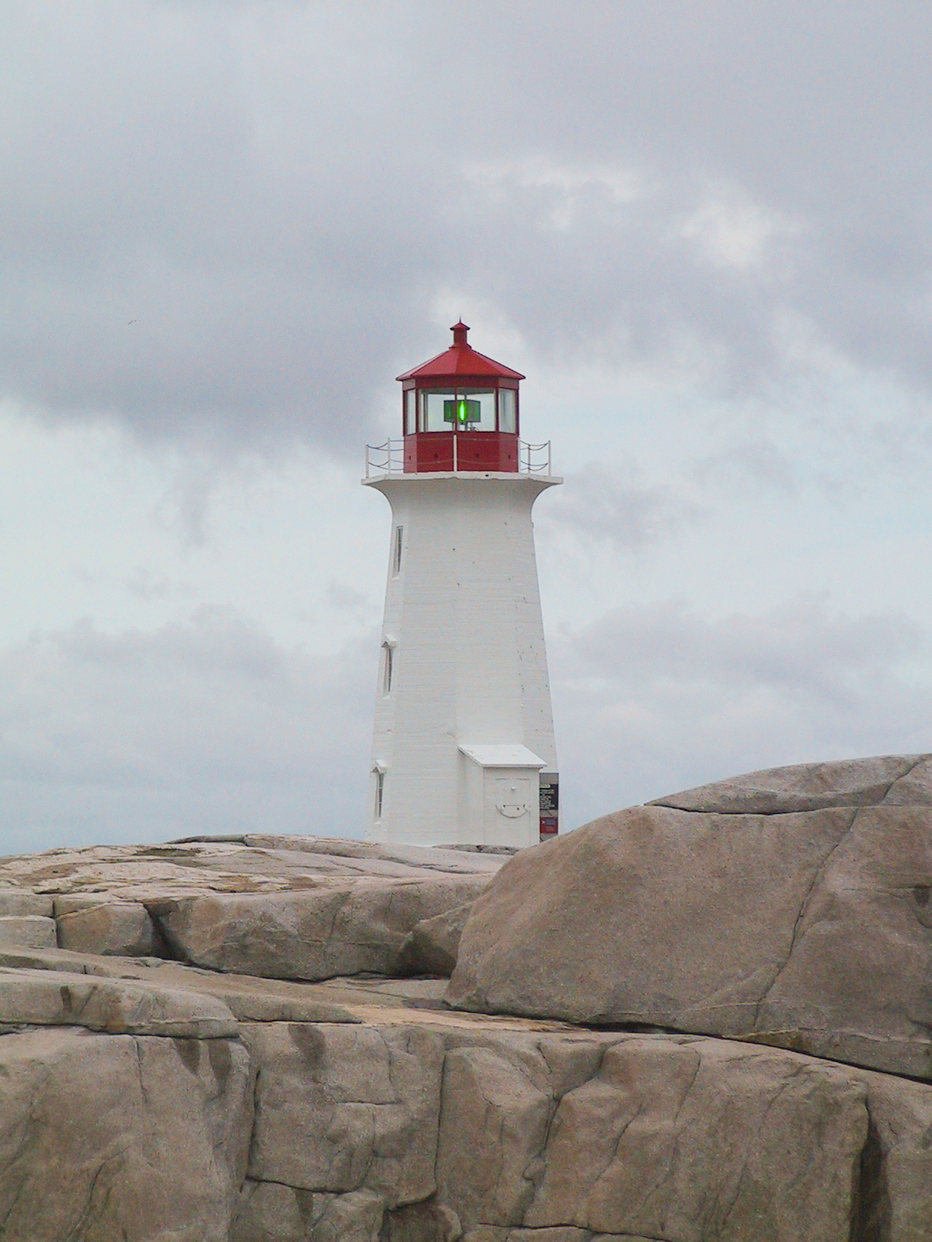
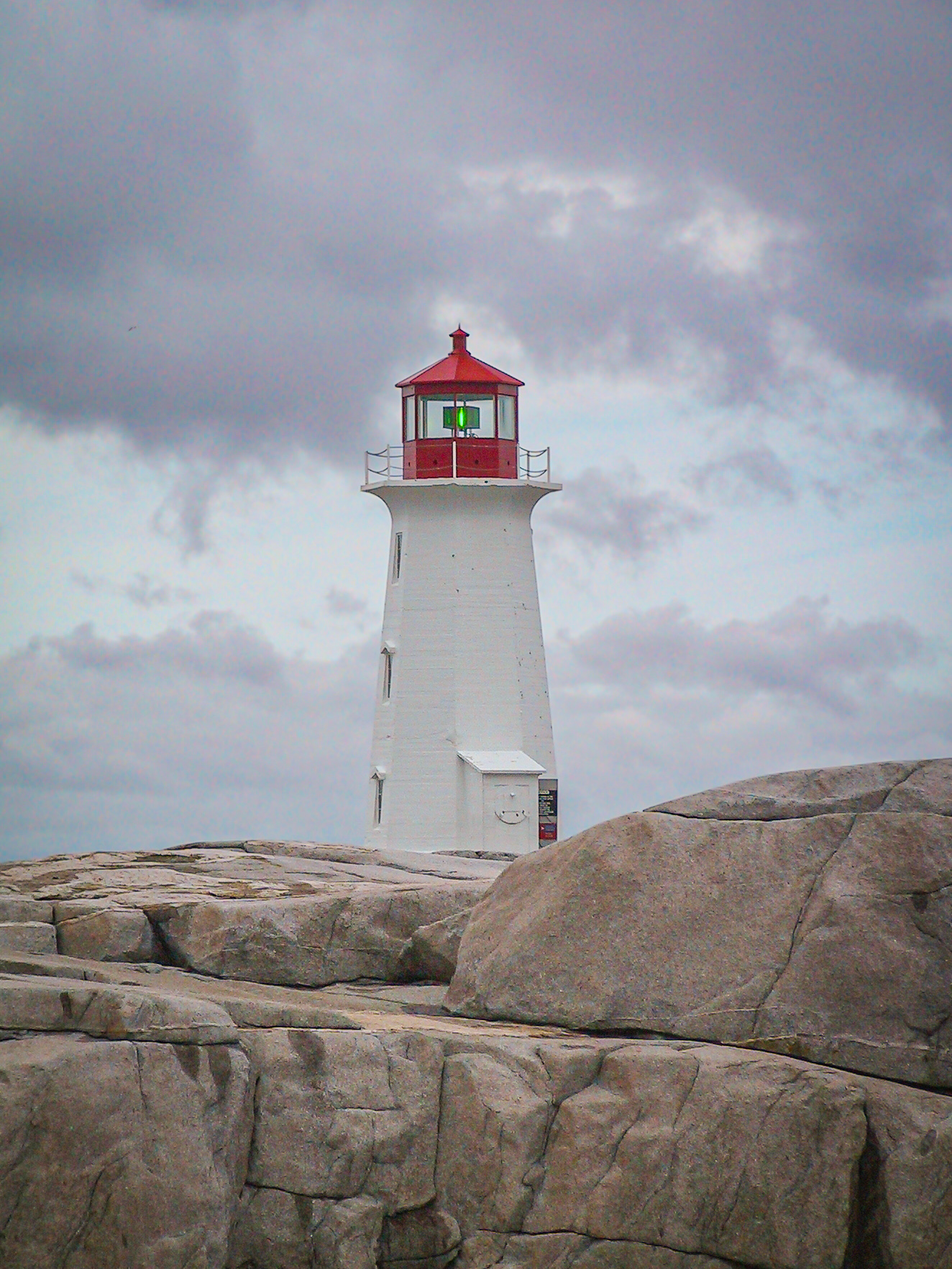
Updated images, corrected site generation, descriptions for places

diff --git a/build_library.js b/build_library.js
@@ -58,9 +58,6 @@ function writeData(filename,data) {
         if (err) {
             console.error(err);
         }
-        else {
-            //console.log('Written.');
-        }
     });
 }
 
@@ -192,6 +189,14 @@ async function showMeta(image) {
                         tags['tags'] = keywords;
                     }
                     break;   
+                case 'City':
+                    break;
+                case 'State':
+                    if (tagsAvailable['Province/State'] !== undefined && tagsAvailable['Province/State'].description !== undefined) tagData = tagsAvailable['Province/State'].description;
+                    break;
+                case 'Country':
+                    if (tagsAvailable['Country/Primary Location Name'] !== undefined && tagsAvailable['Country/Primary Location Name'].description !== undefined) tagData = tagsAvailable['Country/Primary Location Name'].description;
+                    break;
             }
         }
         // And sometimes, it doesn't come out at all, even though it's there...
@@ -236,8 +241,16 @@ async function buildAlbums(files) {
         //let exif = await getEXIF(files[i]);
         let exif = await showMeta(files[i]);
 
-        if (exif === undefined || exif.Country === undefined || exif.Country === 'Unavailable') {
-            console.log('No data for ' + exif.Filename);
+        if (exif === undefined || 
+            exif.City === undefined || 
+            exif.State === undefined || 
+            exif.Country === undefined || 
+            exif.City === 'Unavailable' || 
+            exif.State === 'Unavailable' || 
+            exif.Country === 'Unavailable') {
+            console.log('\n\nNo data for ' + exif.Filename + '\n\n');
+            process.exitCode = 1;
+            process.exit();
         }
         else {
             // Build country data

diff --git a/content/canada/nova_scotia/lunenburg/content.md b/content/canada/nova_scotia/lunenburg/content.md
@@ -1,0 +1,1 @@
+Former fishing village, current UNESCO World Heritage site, and home of the Bluenose II, Lunenburg is a postcard of a Maritime harbour town: brightly-painted buildings that rise on a gentle slope above the shoreline, quaint shops that cater to a particular nautical esthetic, a few restaurants that slant heavily towards seafood, and the odd museum pointing to Lunenburg's past. Though the fisheries are largely gone (Captain Highliner still has a plant there), the town has managed to flourish, likely from the same stubborn determinedness that caused it to rise from Nova Scotia's rocky shores in the first place.  

diff --git a/content/canada/manitoba/teulon/content.md b/content/canada/manitoba/teulon/content.md
@@ -1,0 +1,1 @@
+The abandoned CP Arborg subdivision ran right through the middle of this town, running dead straight north-south as it served the northern part of the interlakes region of Manitoba. But like with so many rail lines that supported the agricultural industry, extracting the grains that fed the world, trucks stole away the business and cars took away the passengers, leaving forgotten memories and causing towns to wither and vanish into the weeds. Teulon has managed to survive, a central point for the surrounding areas, though the railway's history is plainly visible, the old line cleaving the town in two. 

diff --git a/content/canada/nova_scotia/peggys_cove/content.md b/content/canada/nova_scotia/peggys_cove/content.md
@@ -1,0 +1,1 @@
+Easily one of the most famous places in Canada, Peggy's Cove is home to "The Lighthouse". If you've ever seen a picture of a lighthouse from Canada sitting on a rocky shore, odds are that it's Peggy's Cove. It's not the most beautiful lighthouse, by a long shot, and the Canada Post office that used to operate from its base has long since (lamentedly!) closed, it's famous merely because it's now so engrained in the local culture that it's possible to suggest to anyone that there's better places to go. Though fishing still happens from the hamlet, Peggy's Cove is heavily funded by its tourism. 

diff --git a/content/canada/manitoba/winnipeg/content.md b/content/canada/manitoba/winnipeg/content.md
@@ -1,0 +1,1 @@
+Capital of Manitoba, the windiest and coldest corner (Portage and Main) in the country, the beginning (or end, depending on your direction) of the prairies, Winnipeg was, for a time, going to be one of Canada's great cities. But times, economic situations, world wars, and the ever-grinding flow of "progress" managed to steal away Winnipeg's potential glory, leaving it as more of a semi-industrial, semi-rural metropolis that stands guard at the edge of the Canadian Shield, both welcoming you to and warning you of the roads ahead. 

diff --git a/content/canada/nova_scotia/port_hawkesbury/content.md b/content/canada/nova_scotia/port_hawkesbury/content.md
@@ -1,0 +1,1 @@
+Once upon a time, Cape Breton was a true island, cut off from the rest of Nova Scotia by the Strait of Canso. But as humans typically are, we opted to fill in the deep channel with rock and built a road and a railway. Southeast of the Canso Causeway (which does technically require crossing a bridge, suggesting that Cape Breton remains an island) is the town of Port Hawkesbury. Much as its name suggests, it's a protected port opening into the Atlantic, though its importance and prominence has waned in recent years. 

diff --git a/content/canada/nova_scotia/carter_s_beach/content.md b/content/canada/nova_scotia/carter_s_beach/content.md
@@ -1,0 +1,1 @@
+Always talk to the locals whenever you go somewhere, guaranteed you'll find something amazing. We were seconded to White Point, a place known primarily for its eponymous resort. But a few kilometres away, 'round a cove and down a dirt road, you'll come to Carter's Beach. And to step out onto its sands, you'll suddenly wonder if you aren't, in fact, in the Caribbean, and why are there conifers trees on beaches like this? It's a beautiful gem that doesn't get talked enough about, and maybe that's a good thing.  

diff --git a/content/canada/nova_scotia/bridgewater/content.md b/content/canada/nova_scotia/bridgewater/content.md
@@ -1,0 +1,1 @@
+I'm regularly amazed by the places I've visited solely because we need to find a geocache for Alex. Bridgewater is one such place, a town that straddles the LeHave River, presumably how its name derives. We didn't see much of the town, as the cache was on one of the most beautiful railway trestles I've seen. Now a part of the Bridgewater Centennial Trail, it was the former Halifax & South Western (and later, Canadian National) Railway that wound through the undulating terrain of Nova Scotia. 

diff --git a/content/canada/new_brunswick/campbellton/content.md b/content/canada/new_brunswick/campbellton/content.md
@@ -1,0 +1,1 @@
+At the last crossing of Chaleur Bay before the Gaspe breaks loose from the continent and breaks out into the Gulf of St. Lawrence, you'll find the city of Campbellton on the New Brunswick side. An unassuming place, Campbellton lies on the Ocean route that runs between Quebec City and Halifax. Even on a cool, overcast and rainy day, the city is alive, it's people welcoming, and its easy to see yourself staying a spell without any particular plan nor need to have one. 

diff --git a/content/canada/nova_scotia/tatamagouche/content.md b/content/canada/nova_scotia/tatamagouche/content.md
@@ -1,0 +1,1 @@
+Pronounced "tat-ma-GOSH", this village on Nova Scotia's Humberland Strait shore has a lengthy settlement story, let alone the pre-history with the Mik'mak. We discovered in part because we were told to find the cabooses, which as it turns out is part of a B&B called the Train Station Inn -- you sleep in the cabooses. They sit adjacent to the Trans Canada Trail, the former line that ran to Pictou from Oxford Junction; Tatamagouche is roughly mid-way between them. 

diff --git a/content/canada/nova_scotia/mahone_bay/content.md b/content/canada/nova_scotia/mahone_bay/content.md
@@ -1,0 +1,1 @@
+North of Lunenburg lies Mahone Bay, both the body of water and the town. It's a picturesque five-minute slow drive on Hwy 3 as you head either towards or away from Lunenburg, and entirely possible that you might not even stop to look more closely, which would be a terrible shame, for you would miss something out of a postcard, little brightly-coloured houses next to a calm, semi-sheltered bay that look out into the great ocean beyond. 

diff --git a/content/canada/nova_scotia/pictou/content.md b/content/canada/nova_scotia/pictou/content.md
@@ -1,0 +1,1 @@
+For a time, Pictou was the major northern port in Nova Scotia, notably for where the first Highlanders arrived from Scotland after being ushered from their home; a replica of the ship -- the Hector -- still floats in the harbour. And though the Intercolonial Railway saw fit to grow its network to Pictou, it's successor -- Canadian National -- would leave in the 1980s as Pictou had been reduced to a quaint tourist town. 
